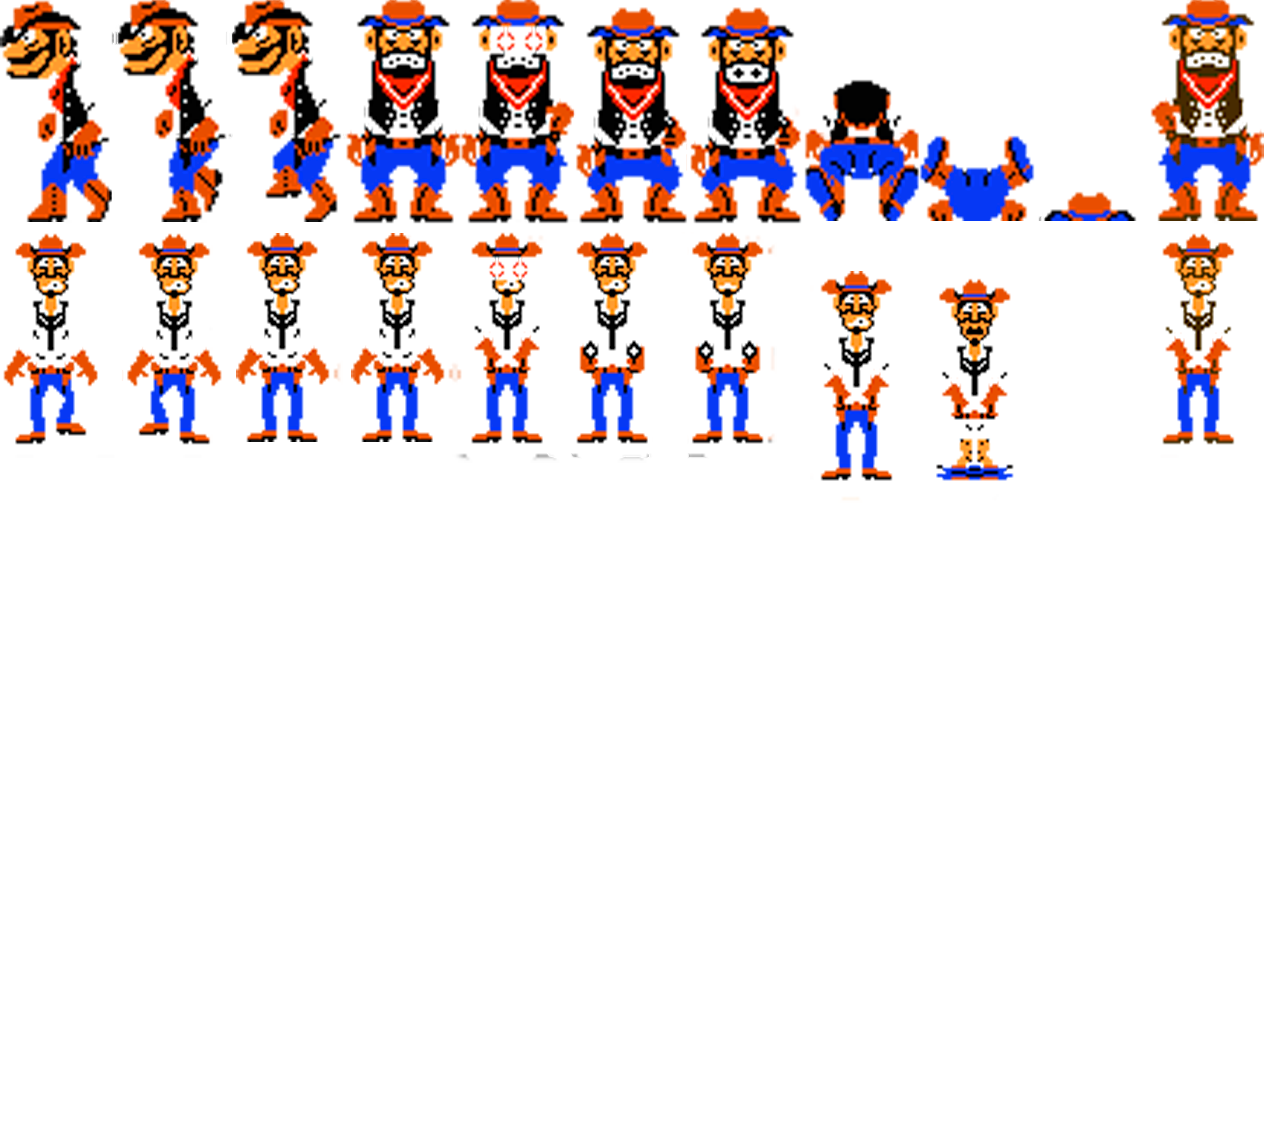
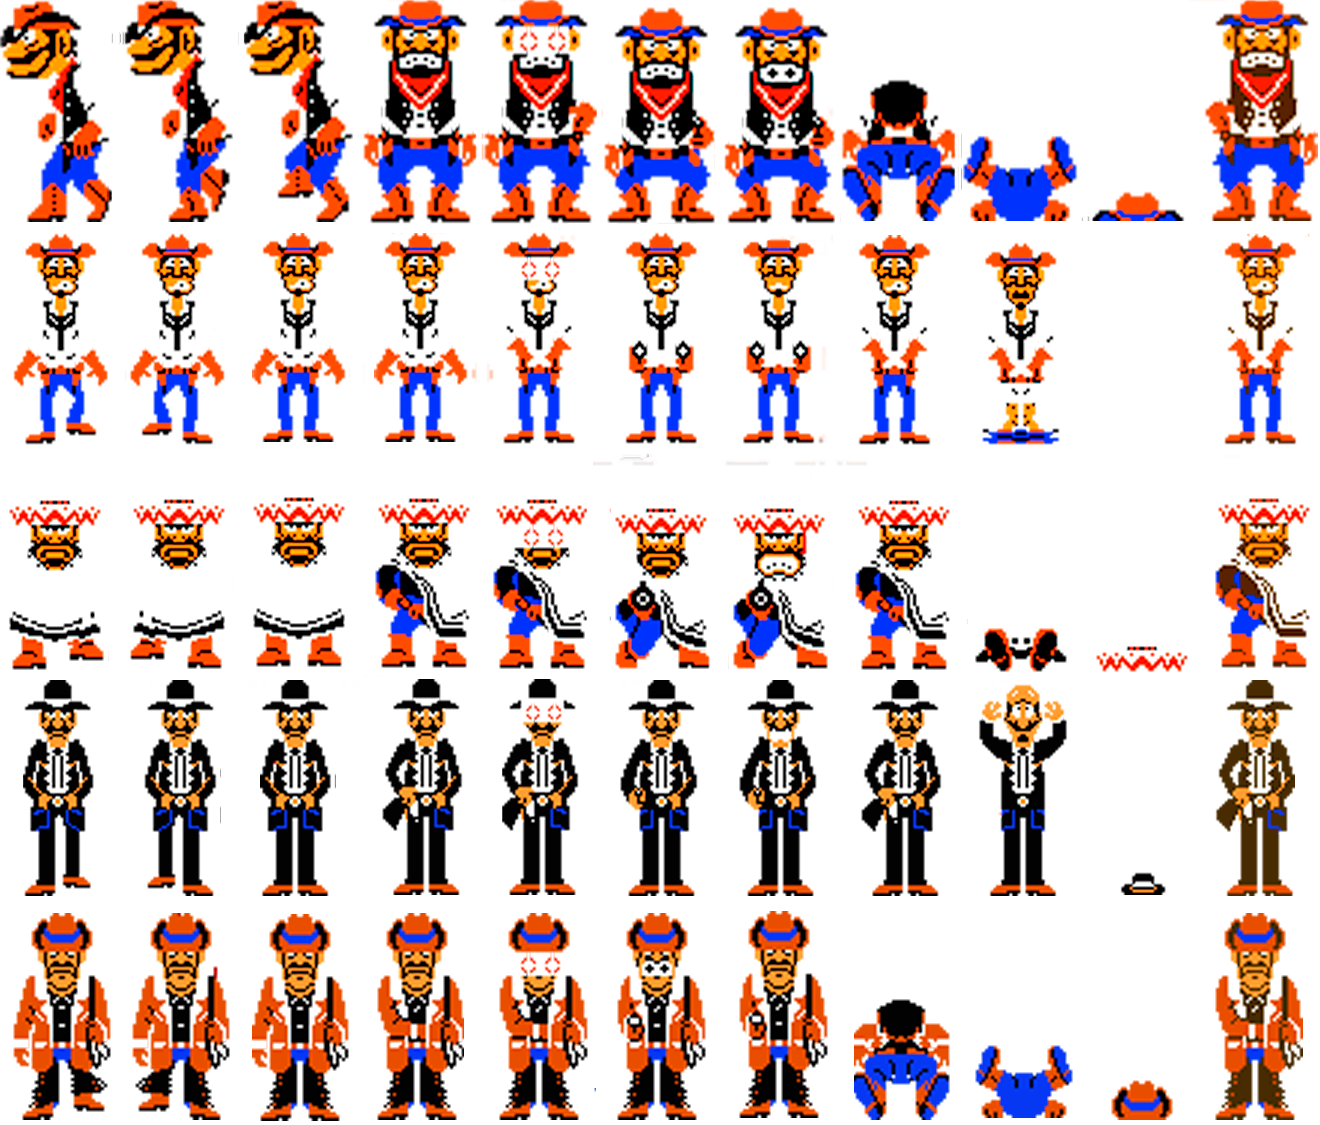
done
done

diff --git a/GoIT/js/exam/js.js b/GoIT/js/exam/js.js
@@ -1,9 +1,10 @@
 var lifeCounter=3;
 var scoreCounter=0;
 var winCounter = 0;
-var gunmanFireTime = 1600;
+var gunmanFireTime;
 var startTime=new Date();
 var rewardsValue;
+var side;
 
 function gunmanMoveRight () {
     var go = +gunman.offsetLeft - 10;
@@ -22,15 +23,15 @@ function gunmanMoveRight () {
 function gunmanMoveLeft () {
     gunmanImage.style.transform = 'scale(-1, 1)';
 
-    var go = +gunman.offsetLeft + 8;
+    var go = +gunman.offsetLeft + 10;
     gunman.style.left = go + 'px';
 
     var u = gunmanImage.offsetLeft;
     if (u === -1080) {
-        gunmanImage.style.left = '-1320px';
-    } else if (u === -1320) {
         gunmanImage.style.left = '-1200px';
     } else if (u === -1200) {
+        gunmanImage.style.left = '-960px';
+    } else if (u === -960) {
         gunmanImage.style.left = '-1080px';
     } else {gunmanImage.style.left = '-1080px';}
 }
@@ -72,7 +73,7 @@ function roundResult(e) {
             gunman.querySelector('img').style.left = '-960px';
         }, 75);
         gunmanHat.style.visibility = 'visible';
-        gunmanHat.style.top = '95px';
+        gunmanHat.style.top = '45px';
         /* END ДВИЖЕНИЕ GUNMAN ПРИ ПРОИГРАШЕ */
 
         /* ПОДСЧЕТ И ВЫВОД НА ЕКРАН БОНУСОВ И ОЧКОВ ЗА ПОБЕДУ */
@@ -110,8 +111,11 @@ function roundResult(e) {
         mainPart.classList.add('loseGame');
 
         /* ДВИЖЕНИЕ GUNMAN - УХОДИТ */
-            var gunmanMove = setInterval(gunmanMoveLeft , 100);
+        if (side==='right') {
+        var gunmanMove = setInterval(gunmanMoveLeft , 100);
             setTimeout(function () { clearInterval(gunmanMove);}, 5100);
+        } else {var gunmanMove = setInterval(gunmanMoveRight , 100);
+            setTimeout(function () { clearInterval(gunmanMove);}, 5100);}
         /* END ДВИЖЕНИЕ GUNMAN - УХОДИТ */
     }
         /* ДЕЙСТВИЯ В СЛУЧАЕ ПОРАЖЕНИЯ */
@@ -122,8 +126,13 @@ function roundResult(e) {
         mainPart.classList.add('loseGame');
 
         /* ДВИЖЕНИЕ GUNMAN - УХОДИТ */
-        var gunmanMove = setInterval(gunmanMoveLeft , 100);
-        setTimeout(function () { clearInterval(gunmanMove);}, 5100);
+        setTimeout(function () {
+            if (side==='right') {
+                var gunmanMove = setInterval(gunmanMoveLeft , 100);
+                setTimeout(function () { clearInterval(gunmanMove);}, 5100);
+            } else {var gunmanMove = setInterval(gunmanMoveRight , 100);
+                setTimeout(function () { clearInterval(gunmanMove);}, 5100);}
+        }, 1500);
         /* END ДВИЖЕНИЕ GUNMAN - УХОДИТ */
     }
     /* END ОПРЕДЕЛЕНИЕ РЕЗУЛЬТАТОВ РАУНДА */
@@ -133,31 +142,36 @@ function roundResult(e) {
     life.innerHTML = 'l. <span>' + lifeCounter + '</span>';
 }
 
+
+
+
 function action () {
 
     var playerResult=0;
     var startDuel = 8050;
 
     /* НАЧАЛЬНЫЕ УСТАНОВКИ */
-    var side ='left';
-    var rand
-    function randomInteger() {
-        rand = 1 - 0.5 + Math.random() * (2 - 1 + 1);
-        rand = Math.round(rand);
-        return rand;
-    }
-    alert(rand);
+    var gunmansQuality = 5; // количество возможных Ганменов
     fire.style.visibility = '';
     gunman.style.left = '900px';
     bonus.style.visibility = '';
     lose.style.visibility = '';
     gunmanHat.style.visibility = '';
     gunman.querySelector('img').style.left = '0';
-    gunmanHat.style.top = '-50px';
+    gunmanHat.style.top = '-100px';
     playerTime.innerHTML = '0.00';
     mainPart.classList.remove('loseGame');
     gunmanImage.style.transform = '';
     /* END НАЧАЛЬНЫЕ УСТАНОВКИ */
+
+    /* ОПРЕДЕЛЕНИЕ СТОРОНЫ ВЫХОДА И ГАНМЕНА КОТОРЫЙ ВЫХОДИТ */
+    gunmanCurrent = Math.ceil((Math.random() * gunmansQuality))*225 - 225;
+    gunmanImage.style.top = '-' + gunmanCurrent + 'px';
+    gunmanHatImage.style.top = '-' + gunmanCurrent + 'px';
+    var sideRandom = Math.random();
+    if (sideRandom>0.5) {side='left';}
+    else {side='right';}
+
 
     /* ВРЕМЯ ВЫСТРЕЛА GUNMANA В ЗАВИСИМОСТИ ОТ ПРОЙДЕННОГО УРОВНЯ (С КАЖДЫМ 5 РАУНДОМ СЛОЖНОСТЬ УВЕЛИЧИВАЕТСЯ) */
     if (winCounter < 5 ) {
@@ -183,10 +197,11 @@ function action () {
     /* ДВИЖЕНИЕ GUNMAN - ВЫХОД НА ЦЕНТР */
 
     if (side=== 'right') {
+        gunman.style.left = '900px';
     var gunmanMove = setInterval(gunmanMoveRight, 100);
     setTimeout(function () {  clearInterval(gunmanMove); }, 5100);
     } else if (side==='left') {
-        gunman.style.left = '0px';
+        gunman.style.left = '-100px';
         var gunmanMove = setInterval(gunmanMoveLeft, 100);
         setTimeout(function () {  clearInterval(gunmanMove); }, 5100);
     }

diff --git a/GoIT/js/exam/style.css b/GoIT/js/exam/style.css
@@ -19,7 +19,7 @@ body {
 }
 .main {
     background: url("bg.png") no-repeat 100% ;
-    height: 455px;
+    height: 405px;
     background-size: 100%;
     position: relative;
     overflow: hidden;
@@ -55,20 +55,20 @@ body {
     width: 120px;
     overflow: hidden;
     position: absolute;
-    top: 150px;
+    top: 100px;
     left: 900px;
 }
 #gunmanImage {
     position: absolute;
     left: 0;
-    top: -450px;
+    top: 0px;
     transform: ;
 }
 #gunmanHat {
     position: absolute;
     height: 225px;
     width: 120px;
-    top: -50px;
+    top: -100px;
     left: 400px;
     transition:  top 3s cubic-bezier(.3, -1, .7, 1);
     visibility: hidden;
@@ -81,7 +81,7 @@ body {
 }
 .message {
     position: absolute;
-    top: 50px;;
+    top: 20px;;
     left: 250px;
     font-size: 30px;
     padding: 10px 20px;

diff --git a/GoIT/js/exam/index.html b/GoIT/js/exam/index.html
@@ -13,8 +13,8 @@
     </div>
 
     <div  class="main" id="mainPart">
-        <div class="gunman_hat" id="gunmanHat"><img src="gunmanForGame2.png" id="gunmanHatImage" alt=""/></div>
-        <div id="gunman"><img src="gunmanForGame2.png" alt="" id="gunmanImage" /></div>
+        <div class="gunman_hat" id="gunmanHat"><img src="gunmanForGame.png" id="gunmanHatImage" alt=""/></div>
+        <div id="gunman"><img src="gunmanForGame.png" alt="" id="gunmanImage" /></div>
         <p class="message" id="fire">FIRE !!!</p>
         <p class="message" id="won">YOU WON !!!</p>
         <p class="message" id="lose">YOU LOST !!!</p>
